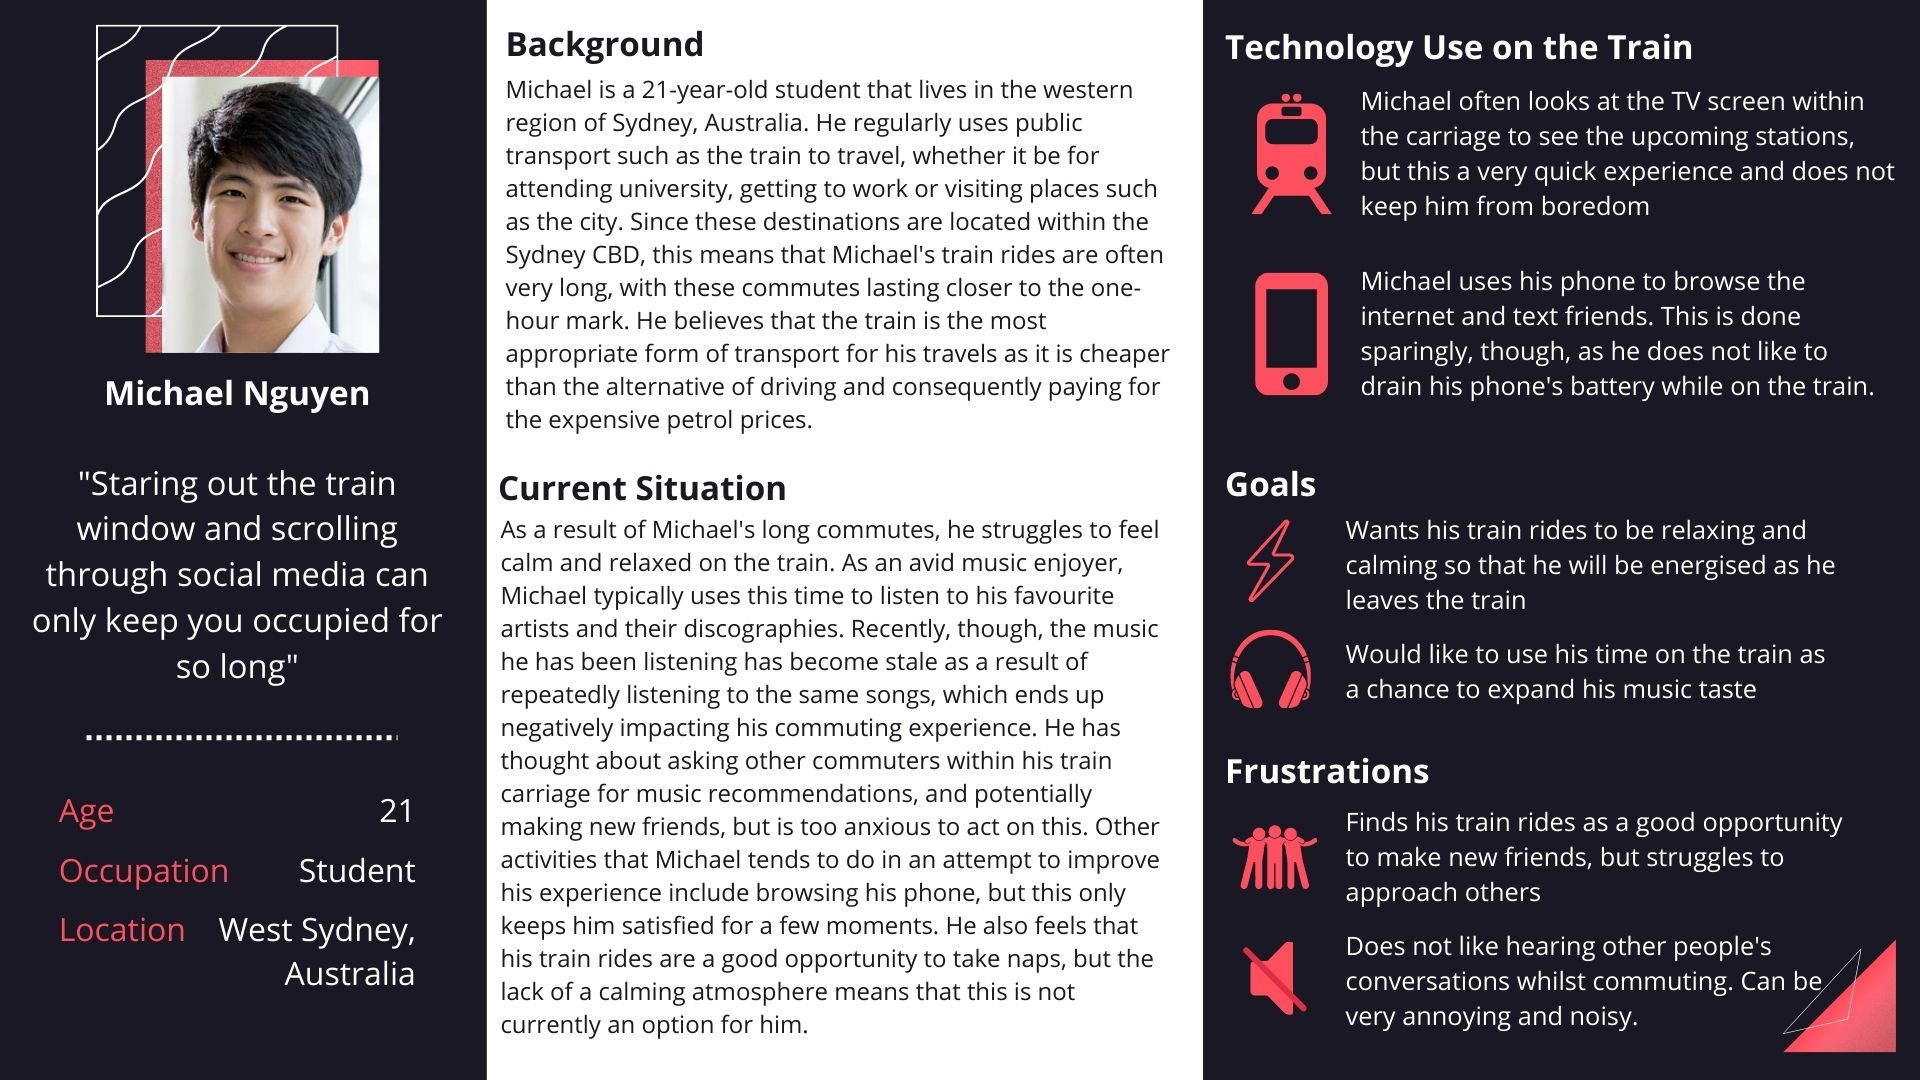
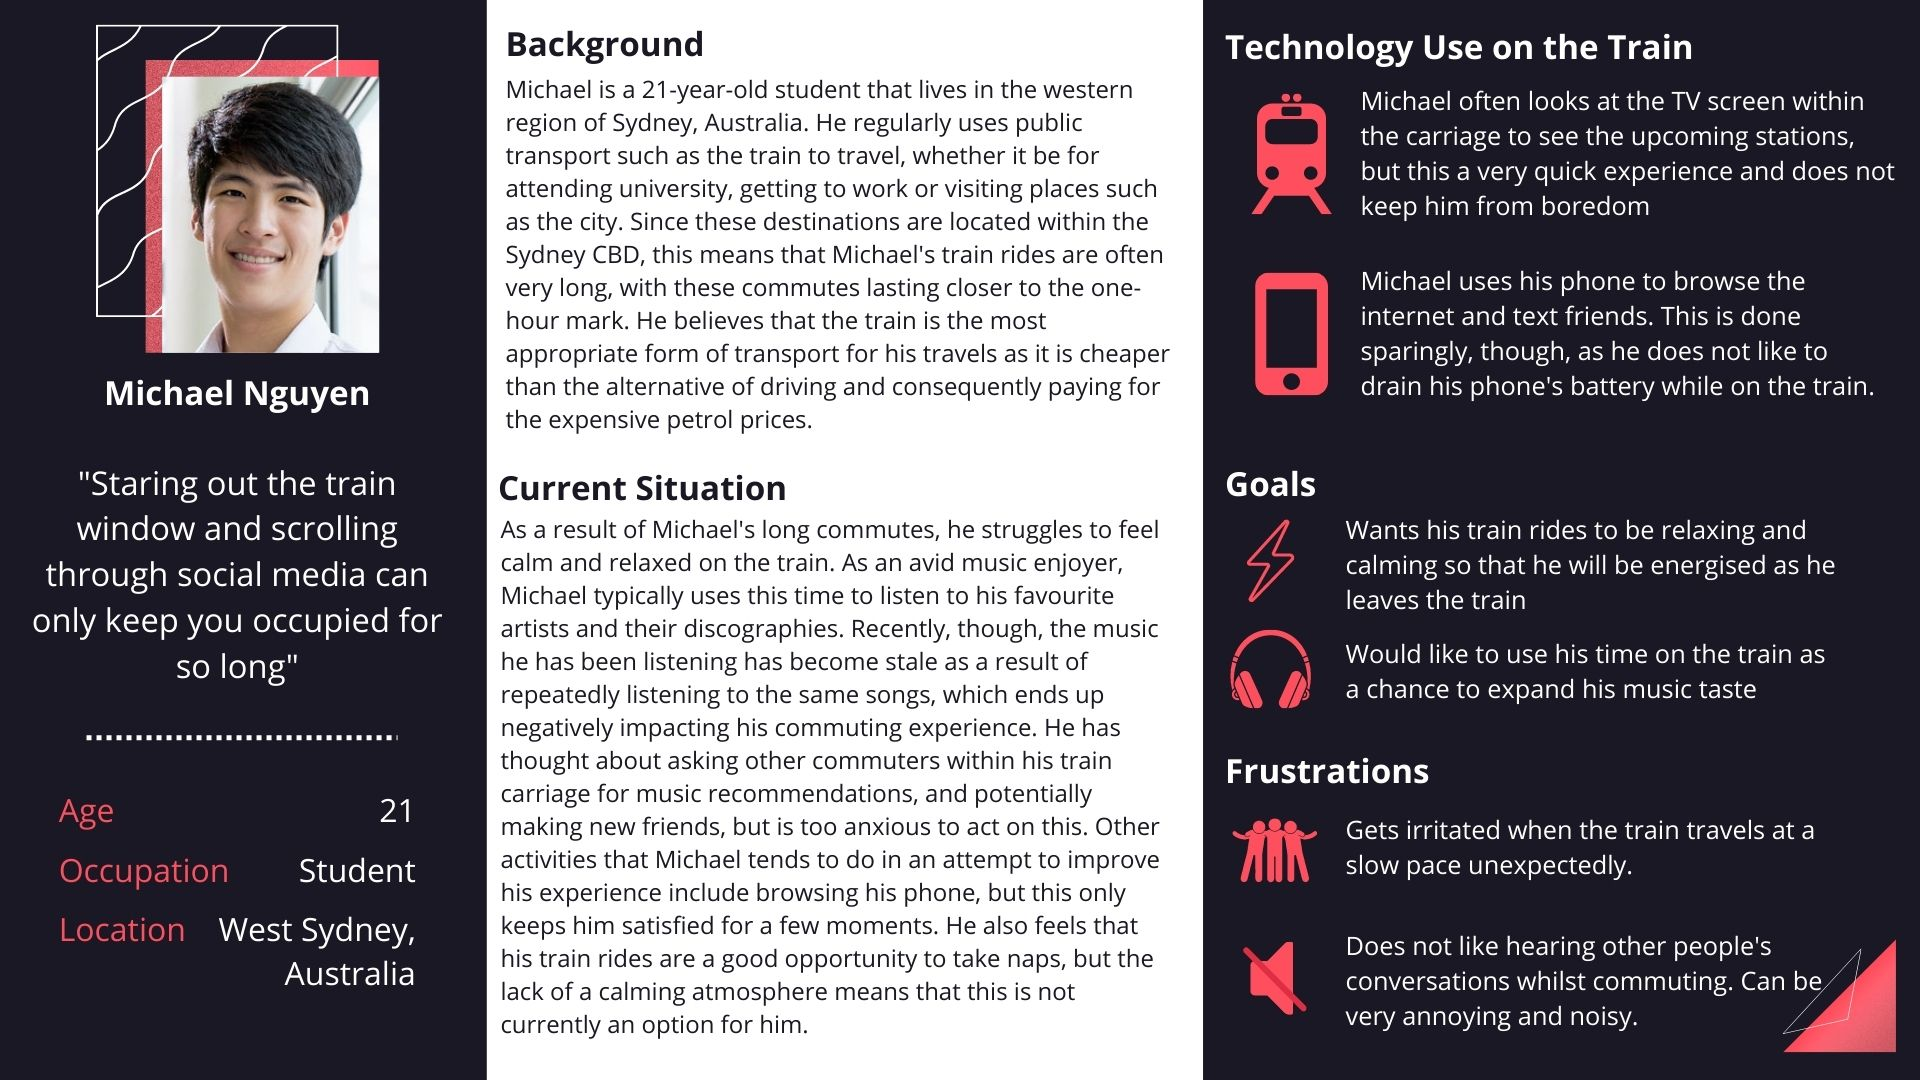
Completed User Research section

Changed region(s): [[0.625, 0.7333, 0.9688, 0.8556]]

diff --git a/metrojam.html b/metrojam.html
@@ -31,7 +31,7 @@
                         experiences for individuals whilst they travel. In doing so, commuters will be influenced to maintain a more positive 
                         attitude and outlook whilst travelling on the train, which can extend to other aspects of a commuter’s daily life.
                     </p>
-                    <img class="image" src="images/train.png">
+                    <img class="image" src="images/train1.png">
                 </div>
             </div>
             <div>
@@ -56,14 +56,14 @@
                     </p>  
                 </div>
             </div>
-            <div class="purple">
+            <div class="purple-gradient">
                 <div class="single-container">
                     <h1 class="purple-heading">User Research</h1>
                     <br><br>
                     <img id="persona" src="images/persona.jpg">
                     <br><br>
                     <p class="center-text">
-                        The user persona I created for the design team showcases my ability to effectively interpret user research data 
+                        The user persona I created for the design team showcases how I am able to effectively interpret user research data 
                         to present key knowledge of a target demographic. In doing so, I provided the team with an artefact that collects 
                         the key insights of the interviews we conducted, representing characteristics, circumstances and aspects that relate 
                         to commuting experiences.
@@ -75,11 +75,102 @@
                     <p class="padding-right">
                         <br>
                         Technology and its use whilst commuting was a prominent topic that the majority of interviewees discussed. 
-                        Therefore, it was apparent that it was beneficial to be included within the persona. In doing so, invaluable insight into digital 
-                        solution opportunities is gathered. Using interview data, the consensus was that the interviewee would have their mobile 
-                        device readily accessible whilst on the train and take quick glances at the train TV to check the stations. Through 
-                        this, I deduced that I could use the train carriage’s environment and mobile devices as an opportunity 
-                        to improve commuting experiences.
+                        Therefore, it was apparent that it was beneficial to be included within the persona. In doing so, invaluable insight 
+                        into digital solution opportunities is gathered. Using interview data, the consensus was that the interviewee would 
+                        have their mobile device readily accessible whilst on the train and take quick glances at the train TV to check the 
+                        stations. Through this, I deduced that I could use the train carriage’s environment and mobile devices as an 
+                        opportunity to improve commuting experiences.
+                    </p>
+                    <br><br>
+                </div>
+                <div class="container">
+                    <p class="padding-left">
+                        <br><br>
+                        To adequately pinpoint user needs, I decided that generalising and representing the target audience’s goals was 
+                        necessary. Interview participants stated their desires to kill time and remain settled as they travel. With music 
+                        listening being the common solution to this desire, I felt that including it within the persona was crucial to 
+                        accurately identifying commuter preferences.
+                    </p>
+                    <img id="goals" src="images/goals.png">
+                    <br><br>
+                </div>
+                <div class="container">
+                    <img id="frustrations" src="images/frustrations.png">
+                    <p class="padding-right">
+                        <br>
+                        My perception of the user data was that participants would become easily agitated by mild changes in 
+                        their commutes. It seemed that, due to the lack of a distraction or something to ease their mind, commuters 
+                        would become restless over things such as slower train paces and overhearing other people's conversations. 
+                        By outlining these typical frustrations, greater opportunity to identify solutions to the pain points that 
+                        an everyday commuter likely experiences are uncovered. 
+                    </p>
+                </div>
+            </div>
+            <div class="dark-purple">
+                <div class="single-container">
+                    <img class="dots" src="images/blackdots.png">
+                    <img id="journey-map"src="images/journey.png">
+                    <p class="center-text-white">
+                        User research was further manipulated to produce a high-level journey map that demonstrates experiences that 
+                        the target demographic would typically encounter when commuting. My aim when creating this artefact was to 
+                        allow my team to ideate as many design solutions as possible by exploring various stages of a commuter's journey 
+                        and identifying any pain points.
+                    </p>
+                </div>
+                <div class="single-container">
+                    <img class="number-circle" src="images/1.png">
+                    <h2 class="journey-text">
+                        Clear Actions, Thoughts and Emotions
+                    </h2>
+                    <p class="center-text-white">
+                        I reflected the typical actions, thoughts and emotions represented from our user data results into 
+                        a succinct timeline that details the average commuting experience. When deciding on what content was to be used
+                        for this section, I ensured that each dot point was beneficial to detailing possible pain points and design 
+                        opportunities before, during and after a train ride, whilst also maintaining a clear, step-by-step timeline. 
+                    </p>
+                </div>
+                <div class="single-container">
+                    <img class="number-circle" src="images/2.png">
+                    <h2 class="journey-text">
+                        Insightful Technology Use and Influencing Factors
+                    </h2>
+                    <p class="center-text-white">
+                        By including technology use based on user research data, I am able to deduce the digital mediums that I can 
+                        use to produce a digital solution, fast-tracking the ideation process. That is, using mobile phones was a 
+                        popular activity within the user research data, and therefore producing a solution that is easily accessible 
+                        by phones may be a good idea. Showcasing major factors that influenced the typical commuting experience allowed 
+                        me to easily distinguish aspects that need to be addressed, which is vital to develop an adequate digital solution. 
+                    </p>
+                </div>
+                <div class="single-container">
+                    <img class="number-circle" src="images/3.png">
+                    <h2 class="journey-text">
+                        Diverse Design Opportunities
+                    </h2>
+                    <p class="center-text-white">
+                        Shows that I am able to break down user research data to provide my team with design opportunities that can address 
+                        the pain points discovered within the journey map. Not only does this aid the ideation process of brainstorming what 
+                        can be produced in relation to the design brief, but it also makes connections with the other aspects of the journey 
+                        map to show how these ideas can improve commuting experiences. When forming this section, I made sure to take into 
+                        account the previous segments to provide the most suitable and relevant design ideas. 
+                    </p>
+                </div>
+                <br><br><br>
+            </div>
+            <div>
+                <img id="train" src="images/train.jpg">
+                <div class="single-container">
+                    <p class="center-text">
+                        After analysing and discussing the user research data with the team, it was decided that the design solution was to 
+                        involve music as the primary focus due to its popularity within interviews and its accessibility among the target 
+                        audience. In addition to this, a social aspect was integrated as commuters tend to text whilst travelling.
+                    </p>
+                    <img class="dots" src="images/dots.png">
+                    <br><br>
+                    <h1 class="purple-heading">Wireframing</h1>
+                    <p class="center-text">
+                        When deciding my approach to building a low-fidelity wireframe of MetroJam, I considered how to best structure the 
+                        application to accomodate for the key themes of music and socialising. 
                     </p>
                 </div>
             </div>

diff --git a/styles.css b/styles.css
@@ -42,9 +42,17 @@ a {
 
 .center-text {
     text-align: center;
-    padding-left: 10em;
-    padding-right: 10em;
+    padding-left: 20em;
+    padding-right: 20em;
 }
+
+.center-text-white {
+    text-align: center;
+    padding-left: 20em;
+    padding-right: 20em;
+    color: white;
+}
+
 .container {
     opacity: 0;
     transition: all 1s;
@@ -128,6 +136,15 @@ a {
     padding-bottom: 5em;
 }
 
+.purple-gradient {
+    background-color: rgb(235,229,255);
+    background: linear-gradient(180deg, rgba(235,229,255,1) 0%, rgba(145,112,255,1) 100%);
+}
+
+.dark-purple {
+    background-color: rgba(145,112,255,1);
+}
+
 .purple-title {
     font-size: 2em;
     color: #5500FF;
@@ -141,12 +158,35 @@ a {
     text-align: center;
 }
 
+.number-circle {
+    display: block;
+    width: 10%;
+    height: auto;
+    margin-left: auto;
+    margin-right: auto;
+}
+
+.journey-text {
+    text-align: center;
+    color: white;
+
+}
+
 .padding-left {
     padding-left: 10em;
+}
+.padding-left-white {
+    padding-left: 10em;
+    color: white;
 }
 
 .padding-right {
     padding-right: 10em;
+}
+
+.padding-right-white {
+    padding-right: 10em;
+    color: white;
 }
 
 .image {
@@ -183,6 +223,34 @@ a {
     font-size: 1.25em;
     padding-top: 8em;
     position: absolute;
+}
+
+#train {
+    width: 100%;
+}
+
+#journey-map {
+    display: block;
+    width: 60%;
+    height: auto;
+    margin-left: auto;
+    margin-right: auto;
+    padding-top: 5em;
+    padding-bottom: 3em;
+}
+
+#goals {
+    width: auto;
+    height: 10em;
+    padding-left: 10em;
+    float: right;
+    padding-top: 1.25em;
+}
+
+#frustrations {
+    width: auto;
+    height: 13em;
+    padding-left: 10em;
 }
 
 #persona {
